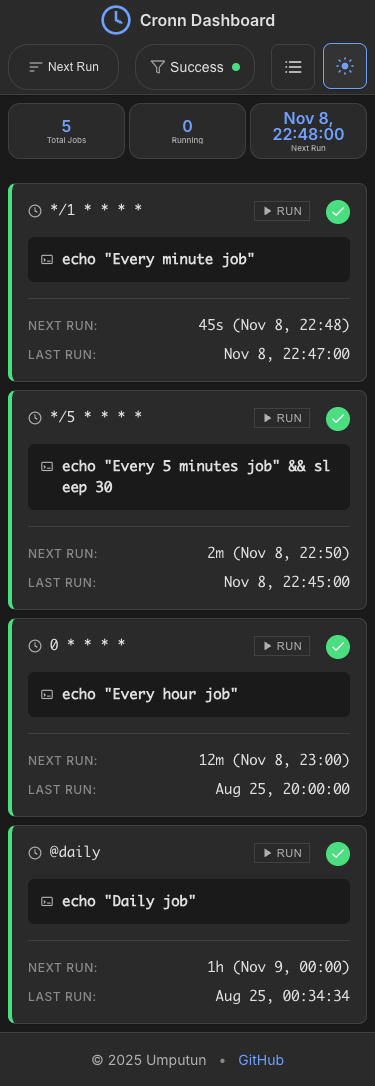
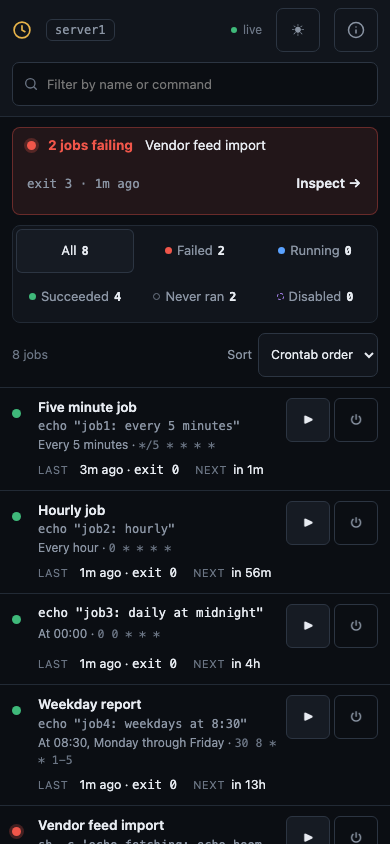
docs: describe the redesigned dashboard and refresh screenshots

diff --git a/CLAUDE.md b/CLAUDE.md
@@ -10,7 +10,7 @@ Cron job scheduler with YAML/JSON and traditional crontab support, using `github
 - **app/crontab**: Parser supporting traditional crontab and YAML/JSON with embedded JSON schema validation
 - **app/conditions**: Conditional execution with semaphore-based concurrency control (default: 10 concurrent checks)
 - **app/web**: Web UI server implementing `JobEventHandler` interface, uses Go templates with `html/template` and `embed`
-- **app/web/enums**: Type-safe enums generated via `go-pkgz/enum` for `JobStatus`, `EventType`, `ViewMode`, `Theme`, `SortMode`, `FilterMode`
+- **app/web/enums**: Type-safe enums generated via `go-pkgz/enum` for `JobStatus`, `EventType`, `Theme`, `SortMode`, `FilterMode`
 - **app/notify**: Notification service for job completion/failures
 - **app/persistence**: SQLite persistence with `sqlx` and `modernc.org/sqlite` driver
 
@@ -60,11 +60,12 @@ Functions return concrete `*SQLiteStore` while accepting `Persistence` interface
 ### Template System
 - Uses `html/template` with `embed` for static files
 - **CRITICAL**: Templates and static files embedded at compile time - **must rebuild after any changes**
-- Template helper functions are pure (no dependencies): `humanTime`, `humanDuration`, `timeUntil`, `truncate`
+- Template helper functions are pure (no dependencies): `humanTime`, `humanDuration`, `timeUntil`, `truncate`, `ago`, `runDuration`, `clock`, `deref`; `describeSchedule` renders cron specs in plain words via `lnquy/cron` (`app/web/schedule.go`)
+- Partials: `jobs.html` (table, tabs, search, alert), `inspector.html` (job inspector and run output), `runform.html` (run dialog and acceptance toast), `settings.html`, `neighbors.html`; all parse from one glob into one template set
 
 ### HTMX Integration Patterns
 - **Out-of-band updates**: `hx-swap-oob="innerHTML"` for updating multiple elements in single response
-- **Auto-refresh polling**: `hx-trigger="load, every 5s"` for JavaScript-free real-time updates
+- **Auto-refresh polling**: the table polls with `hx-trigger="load, every 5s, refresh-jobs from:body"` and `hx-include="#search, #selected-job"`; the inspector's live part polls itself, its run output does not
 - **Response coordination**: `HX-Refresh: true` header triggers full page refresh when needed
 - **Event coordination**: Custom events like `refresh-jobs` coordinate updates between components (used by toggle, sort, filter)
 - **Lazy-load dropdowns**: Native `<details>/<summary>` with `hx-trigger="toggle once"` for dropdowns that fetch content on first open (used in neighbors selector)
@@ -75,12 +76,20 @@ Functions return concrete `*SQLiteStore` while accepting `Persistence` interface
 - Job state updated in memory immediately, persisted separately during sync cycles
 
 ### Cookie-Based Preferences
-Theme, view-mode, sort-mode, filter-mode stored in HTTPOnly cookies with 1-year expiration.
+Theme, sort-mode, filter-mode stored in HTTPOnly cookies with 1-year expiration.
 
 ### CSS Architecture
-- **CSS Custom Properties**: Comprehensive light/dark/auto theme system using CSS variables
-- **Mobile-first responsive**: `grid-template-columns: repeat(auto-fill, minmax(380px, 1fr))` for adaptive layouts
-- **Component-based design**: Reusable patterns for cards, lists, buttons, status indicators
+- **CSS Custom Properties**: light tokens in `:root`, dark under `[data-theme="dark"]`; the login page keeps its own `--color-*` tokens
+- **Container queries on `.app`**: at 1180px and up the inspector docks beside the table; below that it is a fixed overlay drawer, full screen under 600px; 44px touch targets below 1180px; phone rows become two-line blocks under 720px
+- The run dialog becomes a bottom sheet under 600px (media query, since a modal dialog sits outside the container)
+
+### Dashboard: Table, Inspector, Run Dialog
+- One job table (`jobs-table`) with no alternative views. Rows carry `data-job-id`; the `.job-open` name button opens the inspector
+- **Selection state** lives in hidden inputs `#selected-job` and `#selected-run` outside every polled target, set by OOB fragments and sent with each table poll, so selection survives polling
+- **Minimal JS** in `static/ui.js`, only where htmx has no attribute: focus restore on the re-rendered row, opening/removing dialogs, focus into the inspector and marking the covered page `inert` when it overlays, closing the inspector without a request, and the poll-failure notice (`uiPollDone`, scoped to the table's own poll)
+- `#dialog-slot` opens a swapped `<dialog>` on `hx-on::after-settle`, not after-swap: htmx binds the dialog's `hx-on:close` only at settle, and a dialog closed before that stays in the slot
+- **Run endpoint contract**: `POST /api/jobs/{id}/run` with `HX-Request` answers a rejection with 200 and the re-rendered form (message, edits kept) and an acceptance with 202, an OOB toast and `HX-Trigger-After-Swap: refresh-jobs`; callers without `HX-Request` (curl, scripts) keep 202 "Job triggered" and 4xx/5xx text
+- **Expired session**: `authMiddleware` answers htmx requests with 401 and `HX-Redirect` to the login page, so a poll never swaps the login form into the table
 
 ## Authentication Architecture
 
@@ -97,7 +106,7 @@ Theme, view-mode, sort-mode, filter-mode stored in HTTPOnly cookies with 1-year 
 ## Manual Job Execution Architecture
 
 ### Trigger Mechanism
-- Web UI "Run Now" button sends request to `ManualJobRequest` channel
+- The run dialog (row Run button or inspector "Run now") sends a request to the `ManualJobRequest` channel
 - Channel wired to scheduler's `ManualTrigger` channel
 - Background listener in scheduler processes triggers immediately
 - No persistence of manual executions (runs on-demand only)
@@ -115,7 +124,7 @@ manualJobChan <- jobID
 ```
 
 ### Custom Date and EOD Interaction
-- Run confirm modal (rendered client-side by `customConfirm` in `app/web/static/app.js`) lets the user edit the command and enter an optional date (YYYYMMDD); the date field is shown only when the command contains `{{...}}` or `[[...]]` templates
+- The run dialog (`run-form` in `partials/runform.html`, served by `GET /api/jobs/{id}/run-form`) lets the user edit the command and enter an optional date (YYYYMMDD); the date field is shown only when the command contains `{{...}}` or `[[...]]` templates
 - Empty date → `time.Now()` used for template resolution; custom date → that date is parsed at midnight via `ParseInLocation("20060102", ..., time.Local)` (hour 0)
 - With a positive `--eod-hour` (default: 17), midnight is before the cutoff, so a custom date of D resolves both EOD templates to the business day before D. With `--eod-hour=0`, they use D if it is a business day, otherwise the most recent business day before D
 
@@ -125,8 +134,8 @@ manualJobChan <- jobID
 - Web UI toggle button (`POST /api/jobs/{id}/toggle`) flips `job.Enabled` in memory
 - State persisted immediately via `persistJobs()` after toggle
 - HTMX `HX-Trigger: refresh-jobs` header triggers UI refresh after toggle
-- Disabled jobs shown with `job-disabled` CSS class (visual dimming in both card and list views)
-- Toggle button uses `btn-toggle` / `btn-disabled-state` CSS classes for visual state feedback
+- Disabled rows get `data-state="off"`, a `disabled` tag, no next run, and an Enable button in place of Run
+- All lists every job, Disabled only disabled ones; Failed, Running, Succeeded and Never ran list enabled jobs only
 
 ## Type-Safe Enum Pattern
 

diff --git a/README.md b/README.md
@@ -296,25 +296,22 @@ Cronn includes a modern web dashboard for monitoring and managing cron jobs. The
 
 ### Features
 
-- **Real-time job monitoring** with live updates every 30 seconds
-- **Persistent job history** stored in SQLite database that survives restarts
-- **Manual job execution** with advanced capabilities:
-  - Edit commands before execution for one-off modifications
-  - Override template variables with custom dates (YYYYMMDD format)
-  - Execution history showing last 50 runs with both base and executed commands
-  - Visual indicators for customized manual runs
-- **Multiple view modes**: Card view and compact list view with toggle button
-- **Sorting options**: Sort jobs by original order, last run time, or next run time
-- **Job enable/disable toggle**: Disable individual jobs from the dashboard without editing config files
-- **Status filtering**: Filter jobs by status (all, running, success, failed, idle)
-- **Light, dark, and auto themes** with automatic system preference detection
-- **Job statistics bar** showing total jobs with a success/failed/idle breakdown, currently running jobs, and next execution time. The total and each breakdown count are clickable to filter jobs by that status, kept in sync with the filter button
-- **Detailed job information** including schedules, commands, and execution history
-- **Status indicators** with color-coded job states (idle, running, success, failed)
-- **Cookie-based preferences** for persistent theme, view mode, sort order, and filter settings
-- **Responsive design** that works seamlessly on desktop and mobile devices
-- **Modern UI** with Inter font, consistent spacing, and smooth HTMX-powered animations
-- **No JavaScript required** - all interactivity powered by HTMX v2
+- **One job table** with live updates every 5 seconds: job name (the YAML `name`, or the command when unnamed), command, schedule in plain words next to the raw cron spec, last run with its exit code and duration, and next run
+- **Failing jobs alert** at the top, naming the most recent failure with a direct link to its details
+- **Filter tabs with counts**: All, Failed, Running, Succeeded, Never ran and Disabled; search matches job names and commands
+- **Sorting**: crontab order, next run or last run
+- **Job inspector**: click a job to see its full command, state, last and next run, and its latest 50 runs; pick a run to see its output, exit code, duration and, for manual runs, the command actually executed. Failures without output still show their exit code
+- **Manual runs** from a run dialog:
+  - Edit the command for a one-off run
+  - Set a date (YYYYMMDD) for template variables; the field appears only when the command has templates
+  - A rejected run (job disabled, already running, invalid date) is reported in the dialog with your edits kept
+- **Enable/disable jobs** from the table or the inspector without editing config files
+- **Persistent job history** stored in a SQLite database that survives restarts
+- **Light and dark themes** (dark by default), switched from the top bar
+- **Cookie-based preferences** for theme, sort order and filter
+- **Responsive layout**: the inspector sits beside the table on wide screens, slides over it on tablets and takes the full screen on phones; touch-sized controls below 1180px and no sideways scrolling on phones
+- **Update failure notice** when the dashboard cannot reach the server, clearing on the next successful update
+- **HTMX-driven**: server-rendered fragments and HTMX v2 attributes, with a small script only for focus handling and dialogs
 
 ### Usage
 To enable the web dashboard:
@@ -367,7 +364,7 @@ To protect the web dashboard with a password:
 
 3. Access the dashboard with username `cronn` and your password
 
-The dashboard is accessible via web browser at the configured address. Job data updates automatically using HTMX for smooth, JavaScript-free interactions.
+The dashboard is accessible via web browser at the configured address. Job data updates automatically through HTMX polling.
 
 ### Reverse Proxy Configuration
 
@@ -576,7 +573,7 @@ curl -s localhost:8080/api/v1/jobs/JOB_ID/executions/EXEC_ID/logs | jq '.output'
 <details markdown>
   <summary>Screenshots</summary>
 
-### Desktop - Dark Theme
+### Desktop - Dark Theme, Job Inspector Open
 
 ![Dashboard Dark Desktop](https://raw.githubusercontent.com/umputun/cronn/master/site/docs/screenshots/dashboard-dark-desktop.png)
 
@@ -584,17 +581,9 @@ curl -s localhost:8080/api/v1/jobs/JOB_ID/executions/EXEC_ID/logs | jq '.output'
 
 ![Dashboard Light Desktop](https://raw.githubusercontent.com/umputun/cronn/master/site/docs/screenshots/dashboard-light-desktop.png)
 
-### List View
+### Run Dialog
 
-![Dashboard List View](https://raw.githubusercontent.com/umputun/cronn/master/site/docs/screenshots/dashboard-list-view.png)
-
-### Sort by Next Run
-
-![Dashboard Sort Next Run](https://raw.githubusercontent.com/umputun/cronn/master/site/docs/screenshots/dashboard-sort-nextrun.png)
-
-### Sort by Last Run
-
-![Dashboard Sort Last Run](https://raw.githubusercontent.com/umputun/cronn/master/site/docs/screenshots/dashboard-sort-lastrun.png)
+![Dashboard Run Dialog](https://raw.githubusercontent.com/umputun/cronn/master/site/docs/screenshots/dashboard-run-dialog.png)
 
 ### Mobile - Dark Theme
 

diff --git a/docs/plans/20260929-dashboard-redesign.md b/docs/plans/20260929-dashboard-redesign.md
@@ -382,8 +382,8 @@ Tests:
 - [x] ➕ fix found in verification: theme toggle was hidden on phones with no other way to switch; keep it visible
 
 ### Task 5: [Final] Update documentation
-- [ ] update README.md (web UI section: inspector, filters, run form, readable schedules, job names)
-- [ ] update CLAUDE.md (web UI architecture: single table, container queries, inspector state, no app.js;
+- [x] update README.md (web UI section: inspector, filters, run form, readable schedules, job names)
+- [x] update CLAUDE.md (web UI architecture: single table, container queries, inspector state, no app.js;
       drop `ViewMode` from the enums list and view-mode from Cookie-Based Preferences)
 - [ ] move this plan to `docs/plans/completed/` together with `docs/plans/dashboard-redesign/`
 
